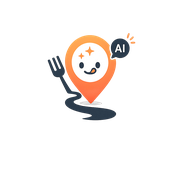
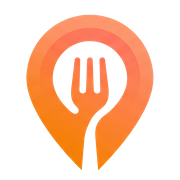
fix: 파비콘을 사용자가 준 로고 이미지로 교체, 404 페이지를 토스페이먼츠 스타일로 재디자인

diff --git a/Project2/src/main/resources/static/error.html b/Project2/src/main/resources/static/error.html
@@ -11,45 +11,136 @@
 
 <!--
 ================================================================================
- error — 공통 에러 페이지 (2026-08-08 신규)
+ error — 공통 에러 페이지 (2026-08-08 신규, 2026-08-08 2차 토스페이먼츠 스타일 리디자인)
 --------------------------------------------------------------------------------
- Spring Boot의 기본 에러 뷰 해석 규칙(ErrorMvcAutoConfiguration)에 의해, static 리소스 위치에 이
- 이름( error.html )의 파일이 있으면 Whitelabel 에러 페이지 대신 이 파일이 자동으로 쓰인다. 별도
- 컨트롤러/설정 없이 404뿐 아니라 다른 HTTP 에러 상태에도 공통으로 사용된다(상태 코드에 따라 문구만
- 살짝 바뀜). PageRoutingController의 화이트리스트에 없는 경로(response.sendError(404))와, 그 화이트
- 리스트 정규식 자체에 안 걸리는 경로(예: 점이 포함되거나 여러 세그먼트인 경로) 양쪽 다 이 페이지로
- 떨어진다.
+ Spring 쪽 ErrorViewResolver(ErrorViewConfig)가 HTML 요청의 /error를 이 파일로 forward한다
+ (/api/** 요청은 기존 JSON 오류 응답 유지). 상태 코드는 쿼리스트링 ?status=로 넘어온다.
+
+ 디자인은 "토스페이먼츠처럼" 요청(2026-08-08)에 맞춰 카드/버튼 위주였던 1차 디자인을 완전히
+ 갈아엎음 — 큰 숫자 하나 + 넉넉한 여백 + 토스 블루(#0064FF) 포인트 + 은은한 그라디언트 블롭
+ 배경 + 필 모양 버튼의 "토스 랜딩페이지" 톤을 따른다.
 ================================================================================
 -->
 
 <link rel="preconnect" href="https://cdn.jsdelivr.net">
 <link rel="stylesheet" href="https://cdn.jsdelivr.net/gh/orioncactus/pretendard@v1.3.9/dist/web/variable/pretendardvariable.min.css">
-<link rel="stylesheet" href="assets/css/eatty.css">
 <style>
-  body { min-height: 100dvh; display: flex; align-items: center; justify-content: center; padding: 24px; background: var(--bg-soft); }
-  .e-error-page { text-align: center; max-width: 420px; }
-  .e-error-page .e-error-code { font-size: 15px; font-weight: 800; letter-spacing: .04em; color: var(--brand-600); }
-  .e-error-page h1 { font-size: 22px; font-weight: 800; color: var(--ink-900); margin: 10px 0 8px; }
-  .e-error-page p { font-size: 14px; color: var(--ink-500); line-height: 1.6; margin-bottom: 24px; }
-  .e-error-page .e-error-actions { display: flex; gap: 8px; justify-content: center; }
+  :root {
+    --toss-blue: #0064FF;
+    --toss-blue-dim: #3182F6;
+    --toss-ink: #191F28;
+    --toss-gray: #8B95A1;
+    --toss-line: #E5E8EB;
+  }
+  * { box-sizing: border-box; }
+  html, body {
+    margin: 0; padding: 0;
+    font-family: 'Pretendard Variable', Pretendard, -apple-system, BlinkMacSystemFont, sans-serif;
+    background: #ffffff;
+    color: var(--toss-ink);
+  }
+  body {
+    min-height: 100dvh;
+    display: flex; flex-direction: column; align-items: center; justify-content: center;
+    padding: 32px 24px;
+    position: relative;
+    overflow: hidden;
+    text-align: center;
+  }
+
+  /* 은은한 배경 블롭 두 개(토스 랜딩페이지에서 자주 쓰는 흐린 그라디언트 원) */
+  .blob {
+    position: absolute;
+    border-radius: 50%;
+    filter: blur(70px);
+    opacity: .35;
+    z-index: 0;
+    pointer-events: none;
+  }
+  .blob--a { width: 420px; height: 420px; top: -160px; left: -120px; background: radial-gradient(circle, #60A5FA, transparent 70%); }
+  .blob--b { width: 380px; height: 380px; bottom: -180px; right: -100px; background: radial-gradient(circle, #93C5FD, transparent 70%); }
+
+  .wrap { position: relative; z-index: 1; max-width: 460px; width: 100%; }
+
+  .logo {
+    display: inline-flex; align-items: center; gap: 8px;
+    text-decoration: none; margin-bottom: 48px;
+  }
+  .logo img { width: 30px; height: 30px; border-radius: 8px; }
+  .logo span { font-size: 18px; font-weight: 800; color: var(--toss-ink); letter-spacing: -.02em; }
+
+  .code {
+    font-size: 96px;
+    line-height: 1;
+    font-weight: 800;
+    letter-spacing: -.04em;
+    background: linear-gradient(135deg, var(--toss-blue) 0%, #00D4FF 100%);
+    -webkit-background-clip: text; background-clip: text; color: transparent;
+    margin: 0 0 20px;
+  }
+  h1 {
+    font-size: 24px;
+    font-weight: 700;
+    letter-spacing: -.02em;
+    margin: 0 0 12px;
+    color: var(--toss-ink);
+  }
+  p.desc {
+    font-size: 15px;
+    line-height: 1.6;
+    color: var(--toss-gray);
+    margin: 0 0 40px;
+  }
+
+  .actions { display: flex; gap: 10px; justify-content: center; flex-wrap: wrap; }
+  .btn {
+    display: inline-flex; align-items: center; justify-content: center;
+    height: 52px; padding: 0 28px;
+    border-radius: 999px;
+    font-size: 15px; font-weight: 700;
+    text-decoration: none;
+    transition: transform .15s ease, background .15s ease, box-shadow .15s ease;
+    border: none; cursor: pointer;
+  }
+  .btn--primary {
+    background: var(--toss-blue);
+    color: #fff;
+    box-shadow: 0 8px 20px rgba(0,100,255,.25);
+  }
+  .btn--primary:hover { background: var(--toss-blue-dim); transform: translateY(-1px); }
+  .btn--ghost {
+    background: #F2F4F6;
+    color: var(--toss-ink);
+  }
+  .btn--ghost:hover { background: #E9ECEF; transform: translateY(-1px); }
+
+  @media (max-width: 420px) {
+    .code { font-size: 72px; }
+    h1 { font-size: 20px; }
+    .btn { flex: 1; height: 50px; padding: 0 18px; }
+  }
 </style>
 </head>
 <body>
-  <div class="e-error-page">
-    <a class="e-logo" href="/" style="justify-content:center; margin-bottom:20px;">
-      <span class="e-logo-mark" style="background:var(--brand-grad, linear-gradient(135deg,#ff7a45,#ff4d4d));">
-        <img class="e-logo-img" src="assets/images/logo-icon.png" alt="">
-      </span>
-      <span class="e-logo-text">잇티<em>웨이</em></span>
+  <span class="blob blob--a" aria-hidden="true"></span>
+  <span class="blob blob--b" aria-hidden="true"></span>
+
+  <div class="wrap">
+    <a class="logo" href="/">
+      <img src="assets/images/icon-192.png" alt="">
+      <span>잇티웨이</span>
     </a>
-    <p class="e-error-code" id="errorCode">404</p>
+
+    <p class="code" id="errorCode">404</p>
     <h1 id="errorTitle">페이지를 찾을 수 없어요</h1>
-    <p id="errorDesc">주소가 잘못됐거나 삭제된 페이지예요. 주소를 다시 확인하시거나 홈으로 돌아가주세요.</p>
-    <div class="e-error-actions">
-      <a href="/" class="btn btn-primary btn-sm">홈으로 가기</a>
-      <a href="support" class="btn btn-outline btn-sm">고객센터 문의</a>
+    <p class="desc" id="errorDesc">주소가 잘못됐거나 삭제된 페이지예요.<br>주소를 다시 확인하시거나 홈으로 돌아가주세요.</p>
+
+    <div class="actions">
+      <a href="/" class="btn btn--primary">홈으로 가기</a>
+      <a href="support" class="btn btn--ghost">고객센터 문의</a>
     </div>
   </div>
+
   <script>
     (function () {
       var status = null;
@@ -60,13 +151,13 @@
       if (!status) return;
       var map = {
         '403': ['403', '접근할 수 없어요', '이 페이지에 대한 권한이 없어요.'],
-        '500': ['500', '문제가 발생했어요', '서버에 일시적인 오류가 발생했어요. 잠시 후 다시 시도해주세요.']
+        '500': ['500', '문제가 발생했어요', '서버에 일시적인 오류가 발생했어요.<br>잠시 후 다시 시도해주세요.']
       };
       var m = map[status];
       if (!m) return;
       document.getElementById('errorCode').textContent = m[0];
       document.getElementById('errorTitle').textContent = m[1];
-      document.getElementById('errorDesc').textContent = m[2];
+      document.getElementById('errorDesc').innerHTML = m[2];
       document.title = m[1] + ' — 잇티웨이';
     })();
   </script>
